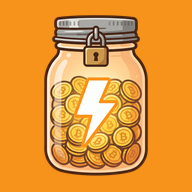
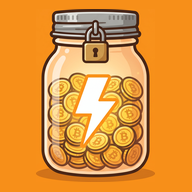
Icone PWA dalla sorgente nuova ad alta risoluzione
Il barattolo arriva gia' composto sul suo arancione
(assets/barattolo-icona-sorgente.jpeg, 2048px): genera_icone.py ora
ritaglia da li' — fondo campionato dagli angoli, bbox a soglia con
l'ombra dentro — invece di comporre sulla tessera. any al 90%
(bello presente), maskable al 67% (intero nel cerchio di sicurezza,
verificato sull'anteprima). VERSIONE del service worker a v2: le
icone sono in dispensa.

diff --git a/sw.js b/sw.js
@@ -8,7 +8,7 @@
    REGOLA OPERATIVA: se cambi un file dell'elenco PRECACHE (o il file
    stesso), alza VERSIONE — le dispense vecchie si svuotano da sole. */
 
-const VERSIONE = 'barattolo-v1';
+const VERSIONE = 'barattolo-v2';
 const CACHE_STATICA = `statica-${VERSIONE}`;
 const CACHE_FONT = `font-${VERSIONE}`;
 

diff --git a/genera_icone.py b/genera_icone.py
@@ -1,53 +1,76 @@
 # genera_icone.py — la ricetta delle icone PWA di Barattolo.
 #
-# Prende il barattolo scontornato (assets/barattolo-hero.png, PNG con
-# trasparenza) e lo appoggia su una tessera arancio Bitcoin piena, come
-# le altre tessere del brand. Si rilancia una volta sola quando la
-# grafica cambia: python genera_icone.py
+# Dal lug 2026 la sorgente e' assets/barattolo-icona-sorgente.jpeg
+# (2048px): il barattolo GIA' composto sul suo fondo arancione. Niente
+# piu' tessera costruita a mano — si ritaglia da qui, e il colore per
+# estendere i bordi si CAMPIONA dagli angoli dell'immagine stessa
+# (e' un filo diverso dal #F7931A di palette: comanda la foto).
+# Si rilancia una volta sola quando la grafica cambia:
+#   python genera_icone.py
+# (e chi la rilancia alza VERSIONE in sw.js: le icone sono in dispensa)
 #
 # Due geometrie:
-#  - "any" (icona-*.png, apple-touch-icon.png): barattolo all'85% del
-#    lato — l'icona classica, l'OS al massimo arrotonda gli angoli.
-#  - "maskable" (icona-*-maskable.png): barattolo al 62% del lato —
-#    Android puo' ritagliare cerchi e squircle, la zona sicura e' il
-#    cerchio di diametro 80% (quadrato inscritto ~66%): al 62% il
-#    barattolo resta sempre intero, con un filo di respiro.
+#  - "any" (icona-*.png, apple-touch-icon.png): barattolo al 90%
+#    dell'altezza — bello presente, l'OS al massimo arrotonda gli angoli
+#    e il barattolo e' stretto (rapporto ~0.69): non li tocca.
+#  - "maskable" (icona-*-maskable.png): barattolo al 67% — Android puo'
+#    ritagliare cerchi e squircle, la zona sicura e' il cerchio di
+#    diametro 80%. Gli angoli del RETTANGOLO utile sforano di un pelo,
+#    ma li' c'e' solo aria arancione: il barattolo vero (spalle tonde,
+#    ombra bassa) resta intero. Verificato sull'anteprima col cerchio.
 
-from PIL import Image
+from PIL import Image, ImageChops
 
-ARANCIO = (247, 147, 26)          # #F7931A, l'arancio ₿ del brand
-SORGENTE = "assets/barattolo-hero.png"
+SORGENTE = "assets/barattolo-icona-sorgente.jpeg"
+SOGLIA_BBOX = 20                  # sotto, e' fondo; sopra, e' barattolo
 
 # (nome file, lato in px, scala del barattolo sul lato)
 ICONE = [
-    ("assets/icona-192.png",          192, 0.85),
-    ("assets/icona-512.png",          512, 0.85),
-    ("assets/icona-192-maskable.png", 192, 0.62),
-    ("assets/icona-512-maskable.png", 512, 0.62),
-    ("assets/apple-touch-icon.png",   180, 0.85),
+    ("assets/icona-192.png",          192, 0.90),
+    ("assets/icona-512.png",          512, 0.90),
+    ("assets/icona-192-maskable.png", 192, 0.67),
+    ("assets/icona-512-maskable.png", 512, 0.67),
+    ("assets/apple-touch-icon.png",   180, 0.90),
 ]
 
 
+def colore_fondo(img):
+    # media dei quattro angoli (quadratini 20x20): il fondo e' piatto,
+    # ma il JPEG ha il suo rumore e un pixel solo sarebbe un azzardo
+    w, h = img.size
+    somma = [0, 0, 0]
+    for box in [(0, 0, 20, 20), (w - 20, 0, w, 20),
+                (0, h - 20, 20, h), (w - 20, h - 20, w, h)]:
+        angolo = img.crop(box).resize((1, 1), Image.LANCZOS)
+        px = angolo.getpixel((0, 0))
+        for i in range(3):
+            somma[i] += px[i]
+    return tuple(c // 4 for c in somma)
+
+
 def genera():
-    barattolo = Image.open(SORGENTE).convert("RGBA")
-    # il PNG sorgente ha i suoi margini trasparenti: si ritaglia il
-    # rettangolo utile, cosi' la scala vale sul barattolo VERO e non
-    # sull'aria che gli sta intorno (senza, uscirebbe rimpicciolito due
-    # volte)
-    barattolo = barattolo.crop(barattolo.getbbox())
+    img = Image.open(SORGENTE).convert("RGB")
+    fondo = colore_fondo(img)
+    # il rettangolo utile: dove l'immagine si stacca dal fondo piatto
+    # (ombra compresa: tagliarla a meta' lascerebbe una riga visibile)
+    diff = ImageChops.difference(img, Image.new("RGB", img.size, fondo))
+    maschera = diff.convert("L").point(lambda p: 255 if p > SOGLIA_BBOX else 0)
+    barattolo = img.crop(maschera.getbbox())
     for nome, lato, scala in ICONE:
-        tela = Image.new("RGBA", (lato, lato), ARANCIO + (255,))
+        tela = Image.new("RGB", (lato, lato), fondo)
         # il barattolo e' piu' alto che largo: si scala sul lato lungo
-        # e si conserva la proporzione
-        massimo = round(lato * scala)
-        rapporto = massimo / max(barattolo.size)
+        # e si conserva la proporzione. Mai upscale: la sorgente a
+        # 2048px basta e avanza, ma la guardia resta
+        rapporto = min(round(lato * scala) / max(barattolo.size), 1.0)
         misure = (round(barattolo.width * rapporto),
                   round(barattolo.height * rapporto))
         soggetto = barattolo.resize(misure, Image.LANCZOS)
         posa = ((lato - misure[0]) // 2, (lato - misure[1]) // 2)
-        tela.alpha_composite(soggetto, posa)
-        # niente alpha nel file finale: il fondo e' pieno per scelta
-        tela.convert("RGB").save(nome, "PNG", optimize=True)
+        # il ritaglio e' un rettangolo pieno, ma i suoi bordi SONO il
+        # fondo campionato: appoggiato sulla tela dello stesso colore
+        # non si vede la giuntura
+        tela.paste(soggetto, posa)
+        tela.save(nome, "PNG", optimize=True)
         print(f"🫙 {nome} ({lato}px, barattolo al {round(scala*100)}%)")
 
 
